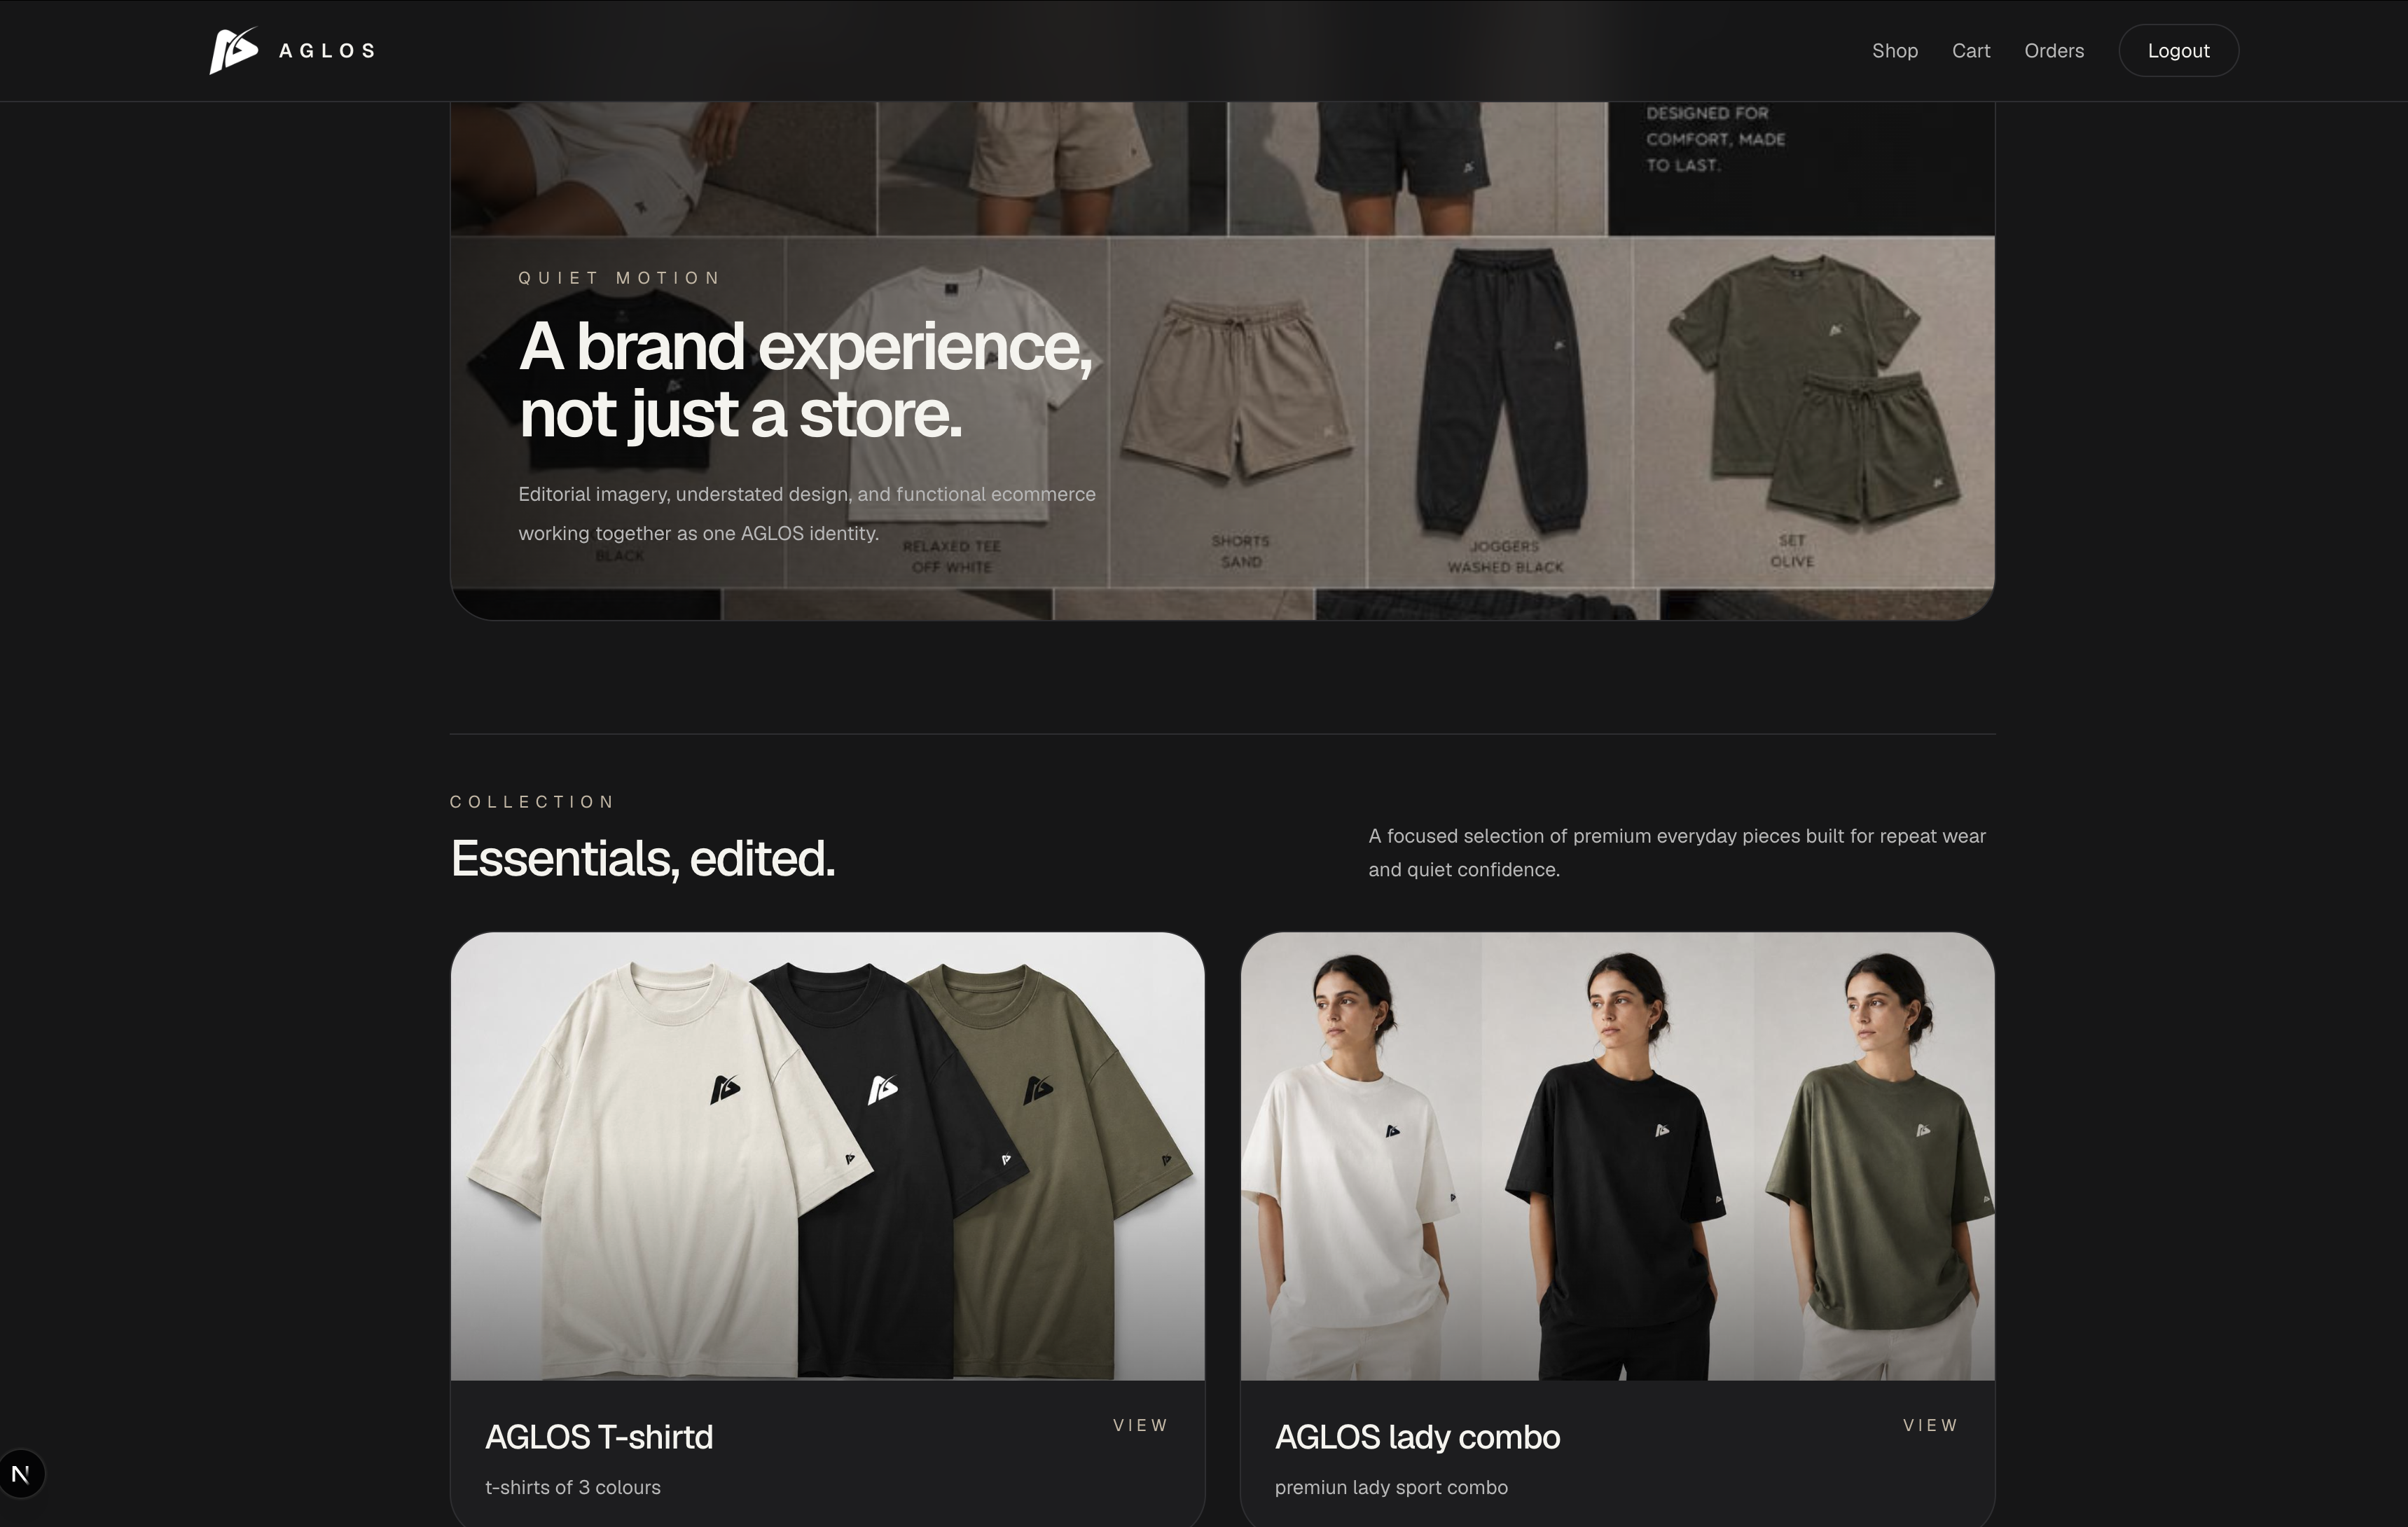
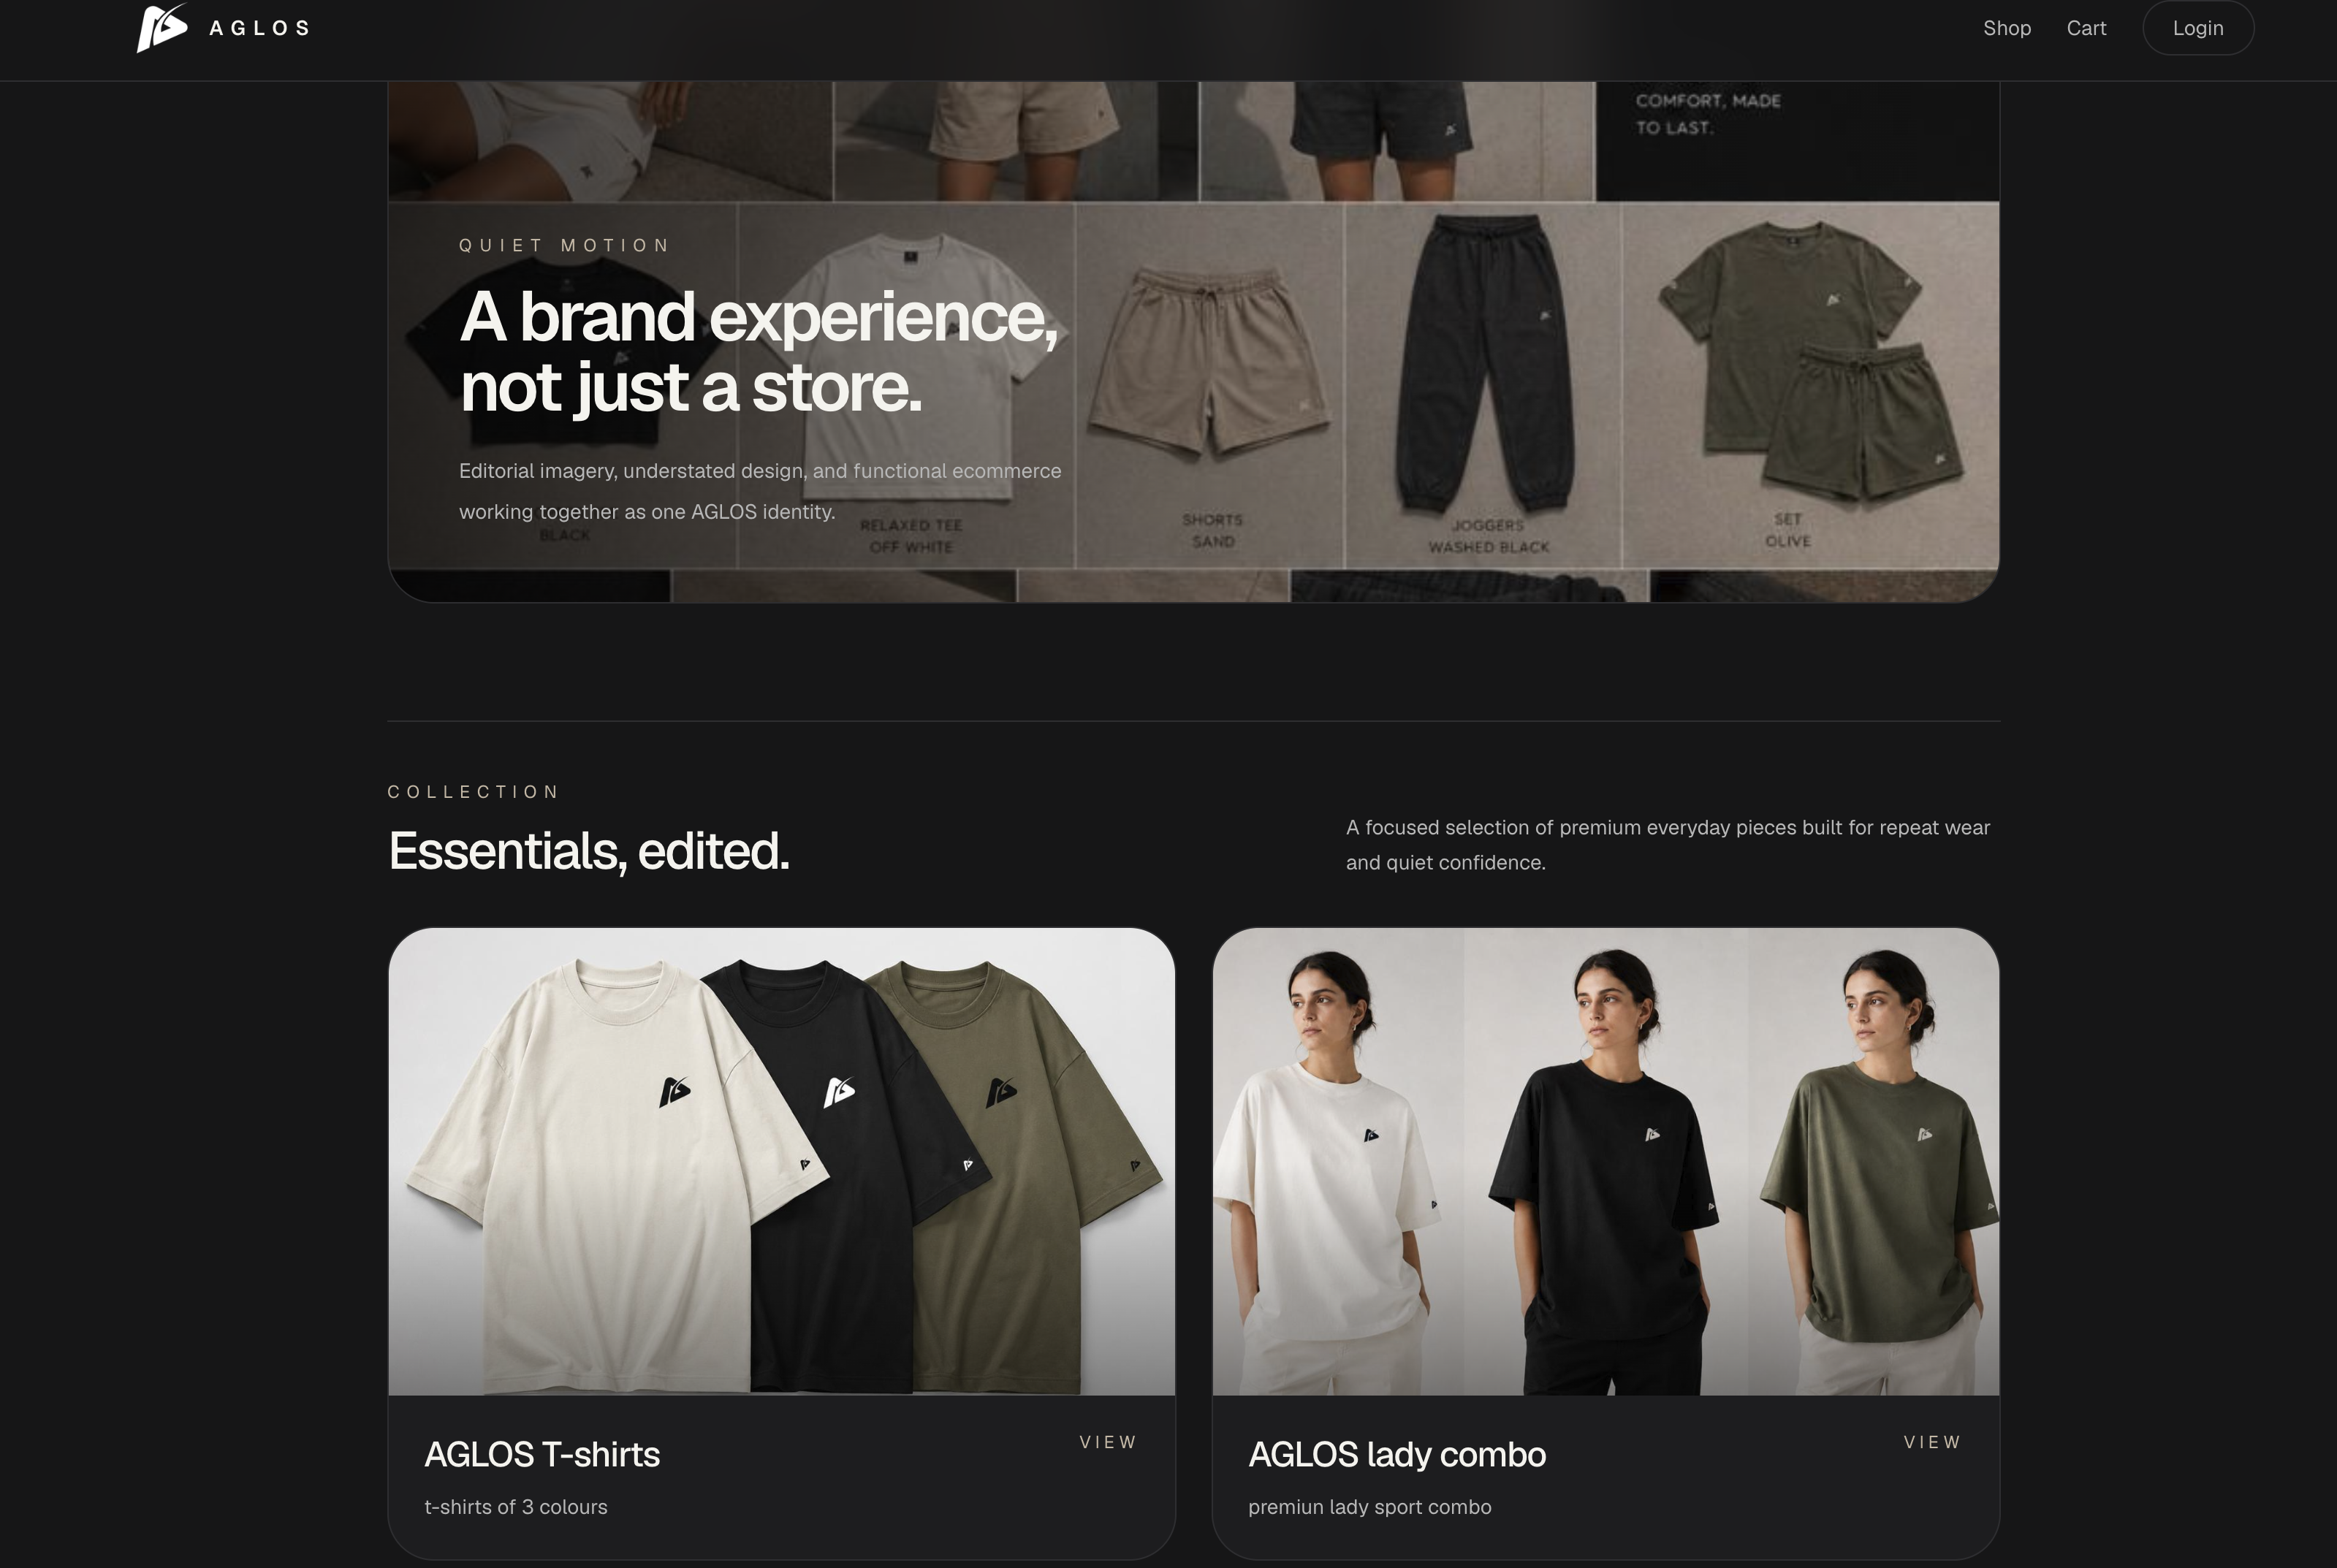
Improve AGLOS portfolio case study

diff --git a/src/app/work/aglos-commerce-os/page.tsx b/src/app/work/aglos-commerce-os/page.tsx
@@ -29,37 +29,37 @@ const stack = [
 ];
 
 const screenshots = [
-    {
-      src: "/images/aglos/aglos-storefront.png",
-      title: "Storefront",
-      description: "Premium fashion storefront for AGLOS products.",
-    },
-    {
-      src: "/images/aglos/aglos-admin-dashboard.png",
-      title: "Admin dashboard",
-      description: "Control centre for business operations.",
-    },
-    {
-      src: "/images/aglos/aglos-orders.png",
-      title: "Orders",
-      description: "Order management for customer purchases.",
-    },
-    {
-      src: "/images/aglos/aglos-inventory.png",
-      title: "Inventory",
-      description: "Stock tracking, restock workflows and product control.",
-    },
-    {
-      src: "/images/aglos/aglos-reports.png",
-      title: "Reports",
-      description: "Sales, financial and product performance reports.",
-    },
-    {
-      src: "/images/aglos/aglos-checkout.png",
-      title: "Checkout",
-      description: "Customer checkout and payment confirmation flow.",
-    },
-  ];
+  {
+    src: "/images/aglos/aglos-storefront.png",
+    title: "Storefront",
+    description: "Premium fashion storefront for AGLOS products.",
+  },
+  {
+    src: "/images/aglos/aglos-admin-dashboard.png",
+    title: "Admin dashboard",
+    description: "Control centre for business operations.",
+  },
+  {
+    src: "/images/aglos/aglos-orders.png",
+    title: "Orders",
+    description: "Order management for customer purchases.",
+  },
+  {
+    src: "/images/aglos/aglos-inventory.png",
+    title: "Inventory",
+    description: "Stock tracking, restock workflows and product control.",
+  },
+  {
+    src: "/images/aglos/aglos-reports.png",
+    title: "Reports",
+    description: "Sales, financial and product performance reports.",
+  },
+  {
+    src: "/images/aglos/aglos-checkout.png",
+    title: "Checkout",
+    description: "Customer checkout and payment confirmation flow.",
+  },
+];
 
 export default function AglosCaseStudyPage() {
   return (
@@ -83,9 +83,58 @@ export default function AglosCaseStudyPage() {
 
           <p className="mt-8 text-xl leading-9 text-[#b8b8b8]">
             A multilingual ecommerce and stock-management platform built for a
-              family fashion brand targeting European and Portuguese-speaking markets,
-              especially Portugal and Angola.
+            family fashion brand targeting European and Portuguese-speaking
+            markets, especially Portugal and Angola.
           </p>
+        </div>
+      </section>
+
+      <section className="border-t border-white/10 px-6 py-20">
+        <div className="mx-auto grid max-w-7xl gap-10 md:grid-cols-[0.8fr_1.2fr]">
+          <div>
+            <p className="text-sm font-medium uppercase tracking-[0.32em] text-[#c7b9a5]">
+              My role
+            </p>
+          </div>
+
+          <div className="space-y-6 text-lg leading-8 text-[#b8b8b8]">
+            <h2 className="text-3xl font-semibold tracking-[-0.04em] text-[#f5f3ee] md:text-5xl">
+              Full-stack product development
+            </h2>
+
+            <p>
+              I designed and built the full-stack AGLOS platform, including the
+              Next.js storefront, customer account area, admin dashboard,
+              FastAPI backend, PostgreSQL database, authentication, role-based
+              permissions, inventory logic, stock movements, stocktakes,
+              reporting workflows and production-readiness verification.
+            </p>
+          </div>
+        </div>
+      </section>
+
+      <section className="border-t border-white/10 px-6 py-20">
+        <div className="mx-auto grid max-w-7xl gap-10 md:grid-cols-[0.8fr_1.2fr]">
+          <div>
+            <p className="text-sm font-medium uppercase tracking-[0.32em] text-[#c7b9a5]">
+              Technical depth
+            </p>
+          </div>
+
+          <div className="space-y-6 text-lg leading-8 text-[#b8b8b8]">
+            <h2 className="text-3xl font-semibold tracking-[-0.04em] text-[#f5f3ee] md:text-5xl">
+              More than a storefront
+            </h2>
+
+            <p>
+              AGLOS was built as a real business operations platform, not only a
+              storefront. The backend handles product variants, order data,
+              stock quantities, stock movements, stocktakes, refunds,
+              permissions and reporting logic, while the frontend provides
+              separate customer and admin workflows with a clean,
+              production-focused interface.
+            </p>
+          </div>
         </div>
       </section>
 
@@ -159,42 +208,43 @@ export default function AglosCaseStudyPage() {
 
       <section className="border-t border-white/10 px-6 py-20">
         <div className="mx-auto max-w-7xl">
-            <div className="max-w-3xl">
+          <div className="max-w-3xl">
             <p className="text-sm font-medium uppercase tracking-[0.32em] text-[#c7b9a5]">
-                Interface
+              Interface
             </p>
 
             <h2 className="mt-4 text-4xl font-semibold tracking-[-0.05em] md:text-6xl">
-                Storefront and admin workflows designed for a real product business.
+              Storefront and admin workflows designed for a real product
+              business.
             </h2>
-            </div>
+          </div>
 
-            <div className="mt-12 grid gap-8 md:grid-cols-2">
+          <div className="mt-12 grid gap-8 md:grid-cols-2">
             {screenshots.map((screenshot) => (
-                <article
+              <article
                 key={screenshot.src}
                 className="overflow-hidden rounded-[1.5rem] border border-white/10 bg-white/[0.03]"
-                >
+              >
                 <img
-                    src={screenshot.src}
-                    alt={screenshot.title}
-                    className="aspect-[16/10] w-full object-cover"
+                  src={screenshot.src}
+                  alt={screenshot.title}
+                  className="aspect-[16/10] w-full object-cover"
                 />
 
                 <div className="p-5">
-                    <h3 className="text-xl font-semibold tracking-[-0.03em]">
+                  <h3 className="text-xl font-semibold tracking-[-0.03em]">
                     {screenshot.title}
-                    </h3>
+                  </h3>
 
-                    <p className="mt-2 text-sm leading-6 text-[#b8b8b8]">
+                  <p className="mt-2 text-sm leading-6 text-[#b8b8b8]">
                     {screenshot.description}
-                    </p>
+                  </p>
                 </div>
-                </article>
+              </article>
             ))}
-            </div>
+          </div>
         </div>
-        </section>
+      </section>
 
       <section className="border-t border-white/10 px-6 py-20">
         <div className="mx-auto grid max-w-7xl gap-10 md:grid-cols-[0.8fr_1.2fr]">
@@ -240,7 +290,8 @@ export default function AglosCaseStudyPage() {
           </div>
         </div>
       </section>
-      <Footer/>
+
+      <Footer />
     </main>
   );
 }

diff --git a/src/data/content.ts b/src/data/content.ts
@@ -89,3 +89,18 @@ export const profile = {
         "English and Portuguese-first systems for European, Portuguese-speaking markets.",
     },
   ];
+
+  export const aglosCaseStudy = {
+    myRole: {
+      eyebrow: "My role",
+      title: "Full-stack product development",
+      description:
+        "I designed and built the full-stack AGLOS platform, including the Next.js storefront, customer account area, admin dashboard, FastAPI backend, PostgreSQL database, authentication, role-based permissions, inventory logic, stock movements, stocktakes, reporting workflows and production-readiness verification.",
+    },
+    technicalDepth: {
+      eyebrow: "Technical depth",
+      title: "More than a storefront",
+      description:
+        "AGLOS was built as a real business operations platform, not only a storefront. The backend handles product variants, order data, stock quantities, stock movements, stocktakes, refunds, permissions and reporting logic, while the frontend provides separate customer and admin workflows with a clean, production-focused interface.",
+    },
+  };

diff --git a/src/components/FeaturedWork.tsx b/src/components/FeaturedWork.tsx
@@ -60,10 +60,10 @@ export function FeaturedWork() {
             </p>
 
             <ul className="mt-6 space-y-4 text-sm leading-7 text-[#d8d3ca]">
-              <li>Storefront, cart and customer order experience.</li>
-              <li>Admin dashboard for products, orders and reporting.</li>
-              <li>Inventory workflows with stock movements and stocktakes.</li>
-              <li>Built as a real system for a family fashion business.</li>
+              <li>Full-stack storefront, cart, checkout and customer account flow.</li>
+              <li>Admin dashboard for orders, products, variants and reporting.</li>
+              <li>Inventory system with stock movements, restocks and stocktakes.</li>
+              <li>Built as a real operations platform for a family fashion business.</li>
             </ul>
           </div>
         </article>